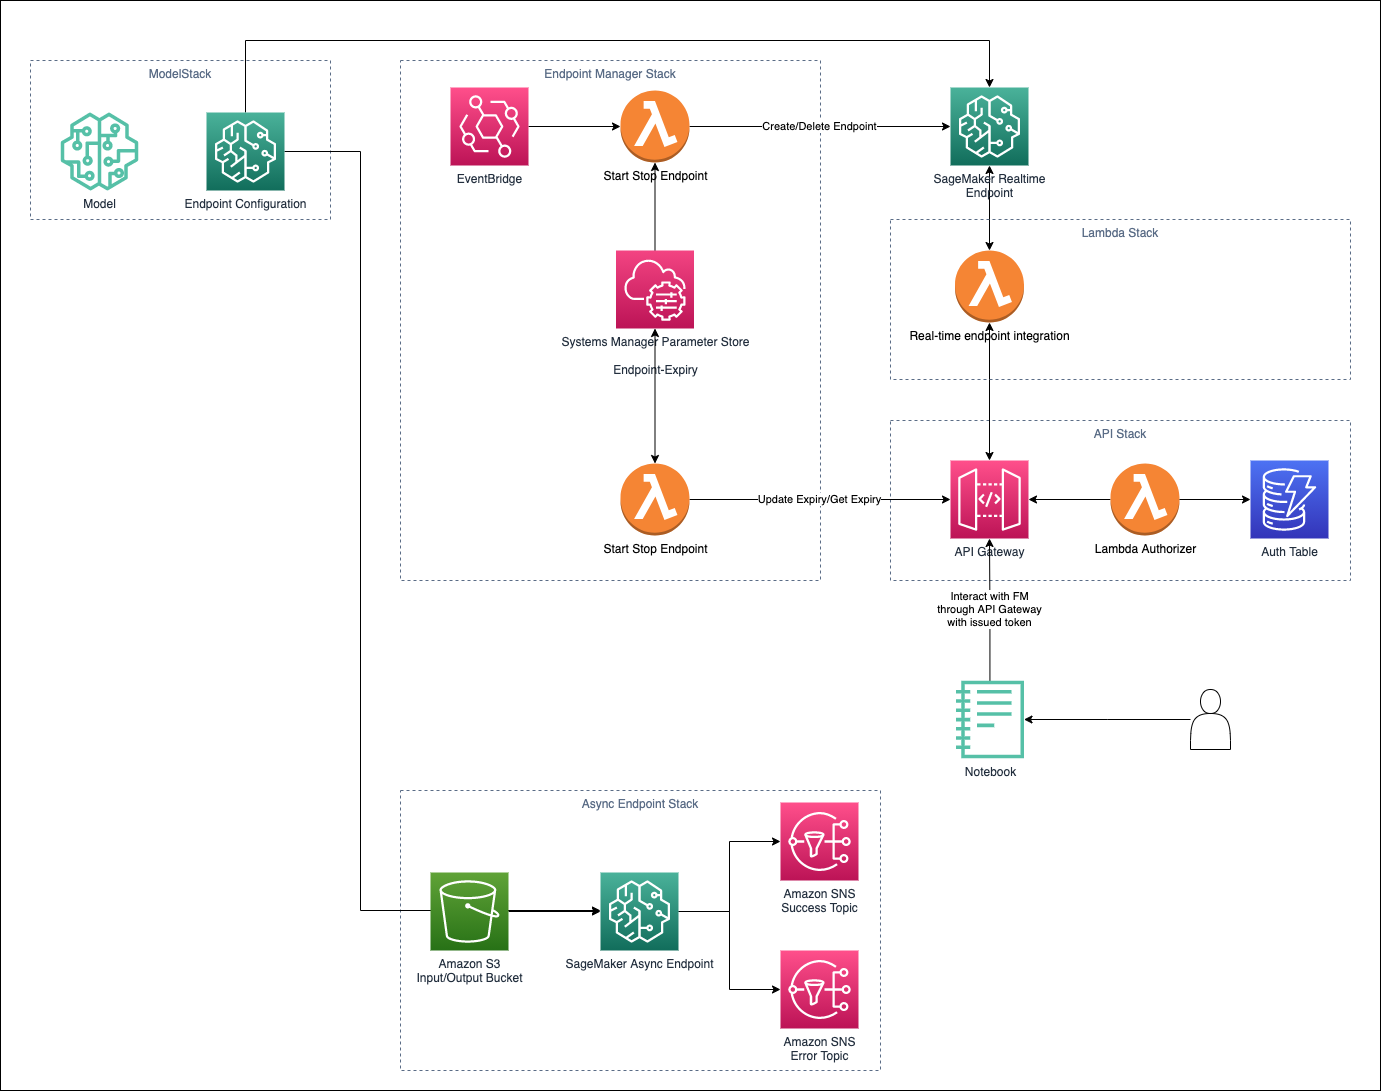
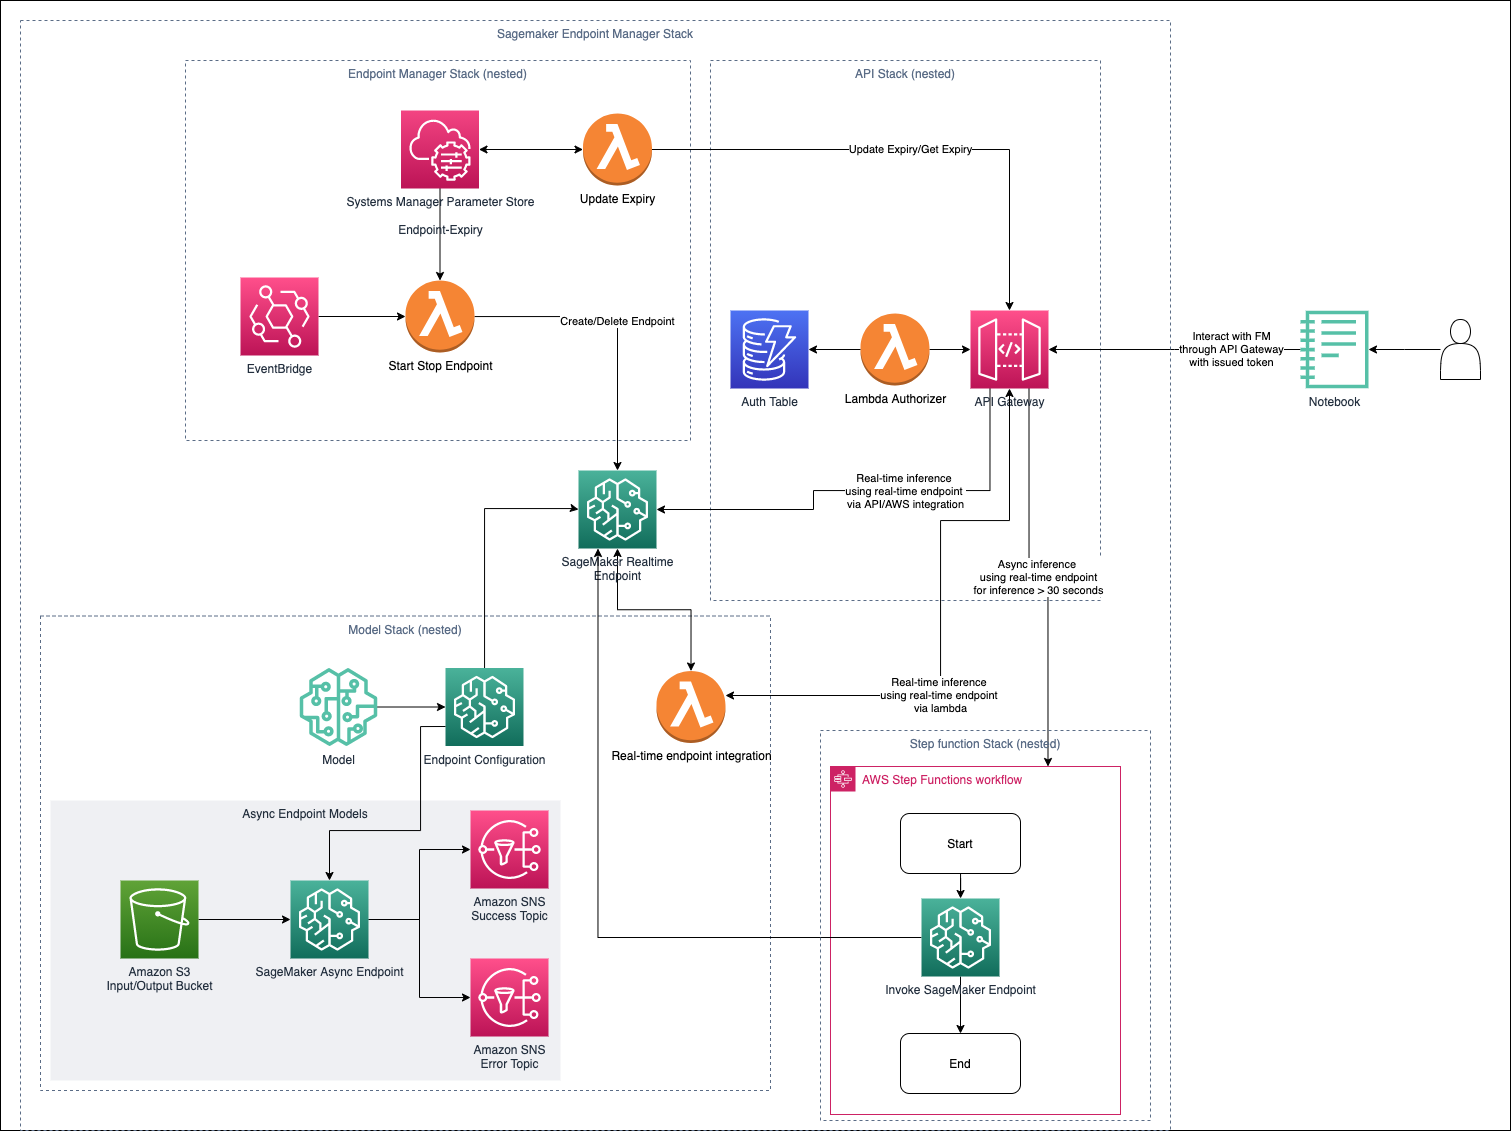
Updated architecture and readme.

diff --git a/README.md b/README.md
@@ -38,6 +38,7 @@ This solution was designed to solve a recurring problem with users leaving their
   - [Real-time Endpoint Management Functions - Extending your real-time endpoint expiry time](#real-time-endpoint-management-functions---extending-your-real-time-endpoint-expiry-time)
   - [Real-time Endpoint Management Functions - Adding a new real-time endpoint](#real-time-endpoint-management-functions---adding-a-new-real-time-endpoint)
   - [Interacting with your real-time endpoint via API](#interacting-with-your-real-time-endpoint-via-api)
+  - [Asynchronously interacting with your real-time endpoint via API](#asynchronously-interacting-with-your-real-time-endpoint-via-api)
   - [Example Notebook](#example-notebook)
   - [Endpoint Manager Configurations](#endpoint-manager-configurations)
     - [**Jumpstart model**](#jumpstart-model)
@@ -172,8 +173,8 @@ This solution was designed to solve a recurring problem with users leaving their
     Deploy the end-to-end SageMaker Endpoint manager stack. This stack will deploy several nested stacks including: 
     1. API gateway stack: The API Gateway which will provide us with an internet facing API to interact with our Amazon SageMaker Endpoint and manage our Amazon SageMaker endpoint. The API Gateway is backed by a basic lambda authorizer with the authorization tokens stored in an Amazon DynamoDB database. 
     2. Endpoint Manager Stack: The stack includes several lambda functions that will be responsible for the automatic creation and deletion of your Amazon SageMaker real-time endpoints. 
-    3. ModelStack: Deploys the predefined Amazon SageMaker endpoints and passthrough lambda (if configured). This stack will deploy all models in the list of jumpstart models.
-    4. Stepfunction Stack: Stack to support asynchronous invocation of the Amazon SageMaker real-time endpoint fronted by the API Gateway
+    3. Model Stack: Deploys the predefined Amazon SageMaker endpoints and passthrough lambda (if configured). This stack will deploy all models in the list of jumpstart models.
+    4. Step function Stack: Stack to support asynchronous invocation of the Amazon SageMaker real-time endpoint fronted by the API Gateway
 
      ```
      cdk deploy SagemakerEndpointManagerStack
@@ -379,6 +380,62 @@ Expected response
     "generated_texts": [
         "..."
     ]
+}
+```
+---
+## Asynchronously interacting with your real-time endpoint via API
+
+In some cases, the inference may take more than 30 seconds which exceeds the API gateway timeout limit. As such an alternative approach to invoking the real-time Amazon SageMaker endpoint is required. This solution provide you with a mechanism to asynchronously invoke the endpoint and retrieve the response when the invocation has been completed. To run inference asynchronously, you will call the API in two step. The first to send your prompt `https://xxxxxxxxxx.execute-api.us-east-1.amazonaws.com/prod/startexecution` and the second to retrieve the result `https://xxxxxxxxxx.execute-api.us-east-1.amazonaws.com/prod/describeexecution`.
+
+
+Send prompt to API request
+```
+curl --location 'https://xxxxxxxxxx.execute-api.us-east-1.amazonaws.com/prod/startexecution' \
+--header 'Authorization: <YOUR TOKEN>' \
+--header 'Content-Type: application/json' \
+--data '{
+    "endpointname": "demo-Falcon40B-Endpoint",
+    "body": {"inputs": "Write a program to compute factorial in python:", "parameters": {"max_new_tokens": 200}}
+}'
+```
+
+Example Send prompt response
+```
+{
+    "executionArn": "arn:aws:states:us-east-1:xxxxxxxxxxxxx:execution:SageMakerInvokeStepfunctionD7692275-BlnWWEoa6OY7:d7bde7bb-084a-4a29-b025-98"
+}
+```
+
+Once you've sent a prompt request, you will be provided with an executionARN. You will then use this response and send it to the retrieval API. Refer to the example below.
+
+Retrieve an invocation API request
+```
+curl --location 'https://xxxxxxxxxx.execute-api.us-east-1.amazonaws.com/prod/describeexecution' \
+--header 'Authorization: <YOUR TOKEN>' \
+--header 'Content-Type: application/json' \
+--data '{
+    "executionArn": "arn:aws:states:us-east-1:xxxxxxxxxxxxx:execution:SageMakerInvokeStepfunctionD7692275-BlnWWEoa6OY7:d7bde7bb-084a-4a29-b025-98d9da47ce44"
+}'
+```
+
+If successful, you will get a response with a the status parameter as `SUCCEEDED`. If the invocation has a status of `RUNNING`, run the request again until you get a `SUCCEEDED` state. The output of the response can be found in the `output` parameter.
+ 
+Example retrieval response
+```
+{
+    "executionArn": "arn:aws:states:us-east-1:xxxxxxxxxxxxx:execution:SageMakerInvokeStepfunctionD7692275-BlnWWEoa6OY7:d7bde7bb-084a-4a29-b025-98d9da47ce44",
+    "input": "{\"endpointname\":\"demo-Falcon40B-Endpoint\",\"body\":{\"inputs\":\"Write a program to compute factorial in python:\",\"parameters\":{\"max_new_tokens\":200}}}",
+    "inputDetails": {
+        "__type": "com.amazonaws.swf.base.model#CloudWatchEventsExecutionDataDetails",
+        "included": true
+    },
+    "name": "d7bde7bb-084a-4a29-b025-98d9da47ce44",
+    "output": "{\"Body\":\"[{\\\"generated_text\\\":\\\"\\\\nYou can compute factorial in Python using the built-in function `math.factorial()`. Here's an example:\\\\n\\\\n```python\\\\nimport math\\\\n\\\\nn = 5\\\\nfactorial = math.factorial(n)\\\\nprint(factorial)\\\\n```\\\\n\\\\nThis will output `120`, which is the factorial of 5.\\\"}]\",\"ContentType\":\"application/json\",\"InvokedProductionVariant\":\"AllTraffic\"}",
+    ...
+    "startDate": 1.691411436575E9,
+    "stateMachineArn": "arn:aws:states:us-east-1:xxxxxxxxxxxxx:stateMachine:SageMakerInvokeStepfunctionD7692275-BlnWWEoa6OY7",
+    "status": "SUCCEEDED",
+    ...
 }
 ```
 
